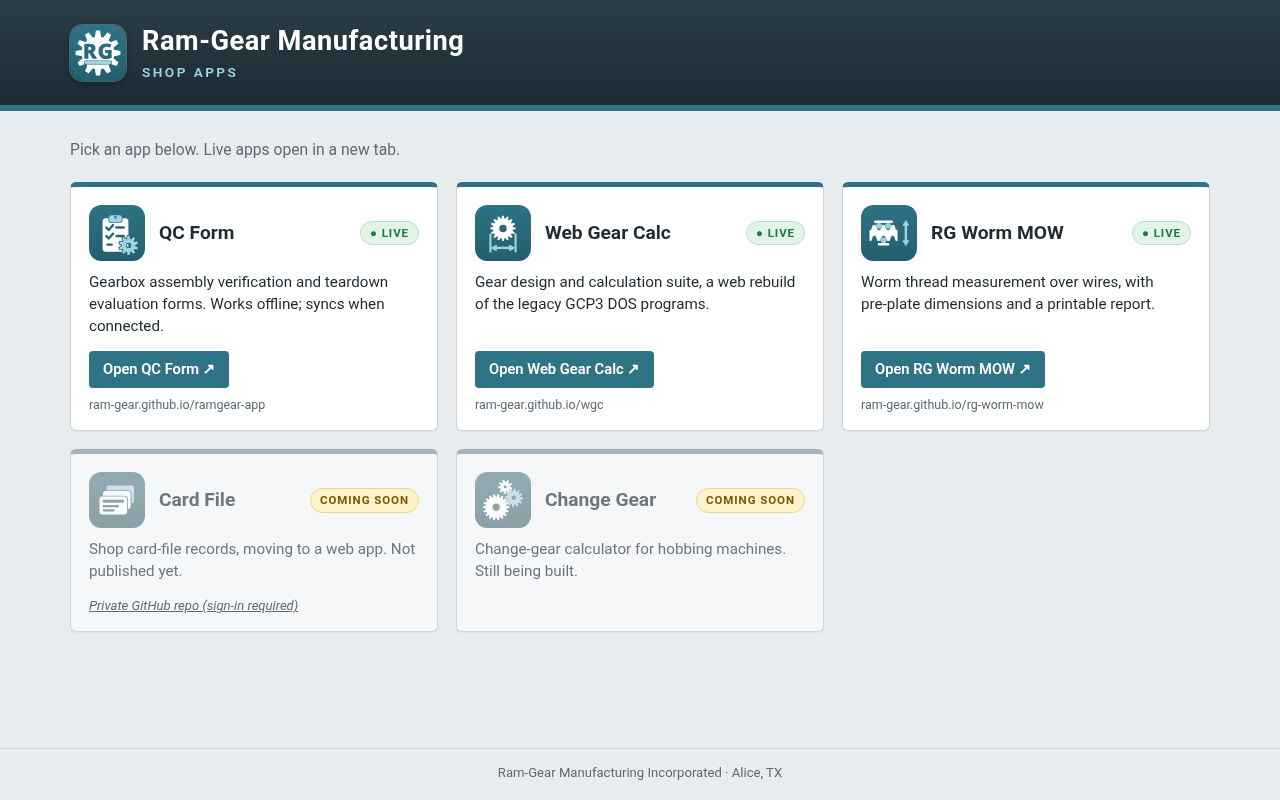
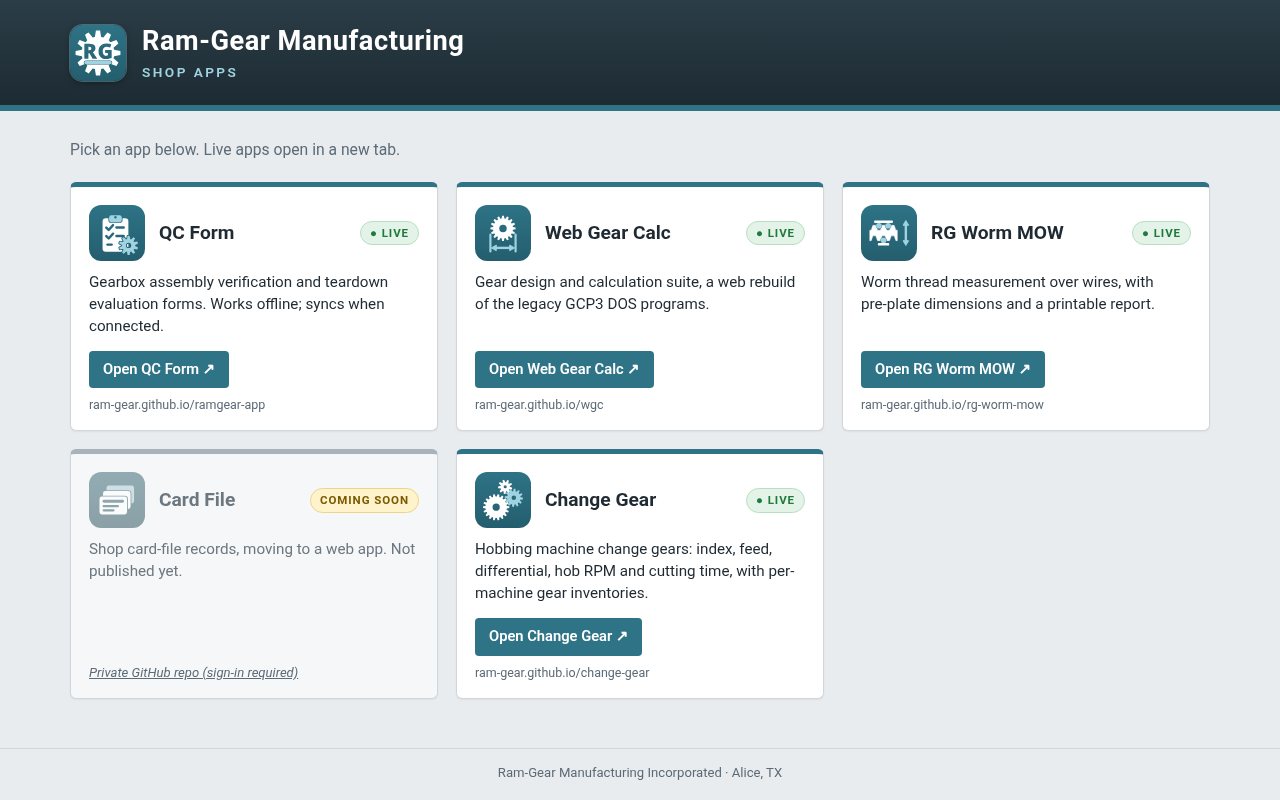
Change Gear is live

Changed region(s): [[0.3438, 0.5625, 0.625, 0.8438], [0.0625, 0.75, 0.25, 0.7812], [0.0938, 0.8125, 0.2188, 0.875]]

diff --git a/index.html b/index.html
@@ -194,7 +194,7 @@ const APPS = [
   { name: "Web Gear Calc",  status: "live", icon: "icons/web-gear-calc.svg", url: "https://ram-gear.github.io/wgc/",         desc: "Gear design and calculation suite, a web rebuild of the legacy GCP3 DOS programs." },
   { name: "RG Worm MOW",    status: "live", icon: "icons/rg-worm-mow.svg", url: "https://ram-gear.github.io/rg-worm-mow/", desc: "Worm thread measurement over wires, with pre‑plate dimensions and a printable report." },
   { name: "Card File",      status: "soon", icon: "icons/cardfile.svg", desc: "Shop card-file records, moving to a web app. Not published yet.", note: "Private GitHub repo (sign-in required)", noteUrl: "https://github.com/Ram-Gear/cardfile" },
-  { name: "Change Gear",    status: "soon", icon: "icons/change-gear.svg", desc: "Change-gear calculator for hobbing machines. Still being built." },
+  { name: "Change Gear",    status: "live", url: "https://ram-gear.github.io/change-gear/", icon: "icons/change-gear.svg", desc: "Hobbing machine change gears: index, feed, differential, hob RPM and cutting time, with per-machine gear inventories." },
 ];
 /* ===================================================================== */
 

diff --git a/README.md b/README.md
@@ -69,7 +69,7 @@ Open `index.html` and find the `APPS` array near the top of the `<script>` block
 | Web Gear Calc | Live | `icons/web-gear-calc.svg` | https://ram-gear.github.io/wgc/ |
 | RG Worm MOW | Live | `icons/rg-worm-mow.svg` | https://ram-gear.github.io/rg-worm-mow/ |
 | Card File | Coming soon | `icons/cardfile.svg` | private repo, not published |
-| Change Gear | Coming soon | `icons/change-gear.svg` | in progress |
+| Change Gear | Live | `icons/change-gear.svg` | https://ram-gear.github.io/change-gear/ |
 
 ## Icons
 
